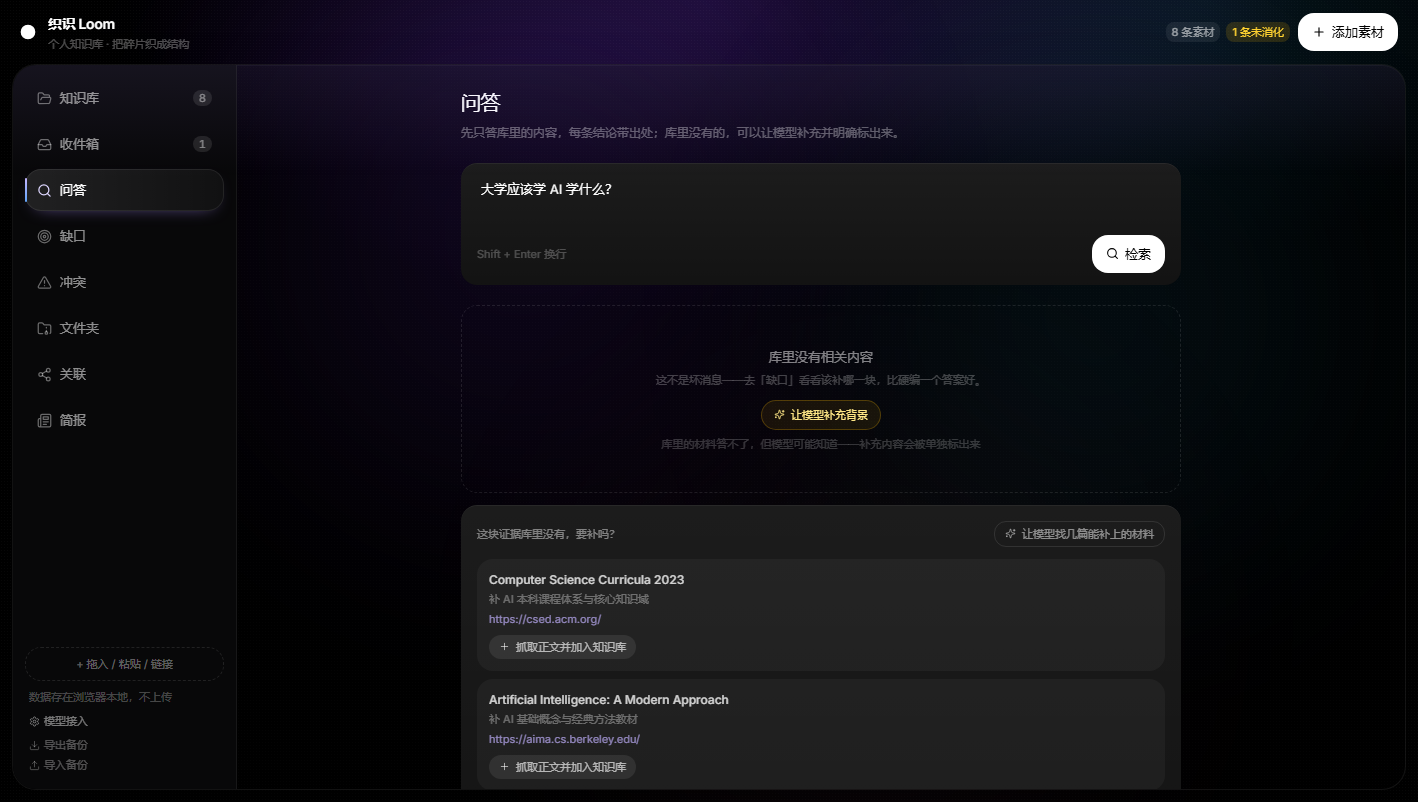
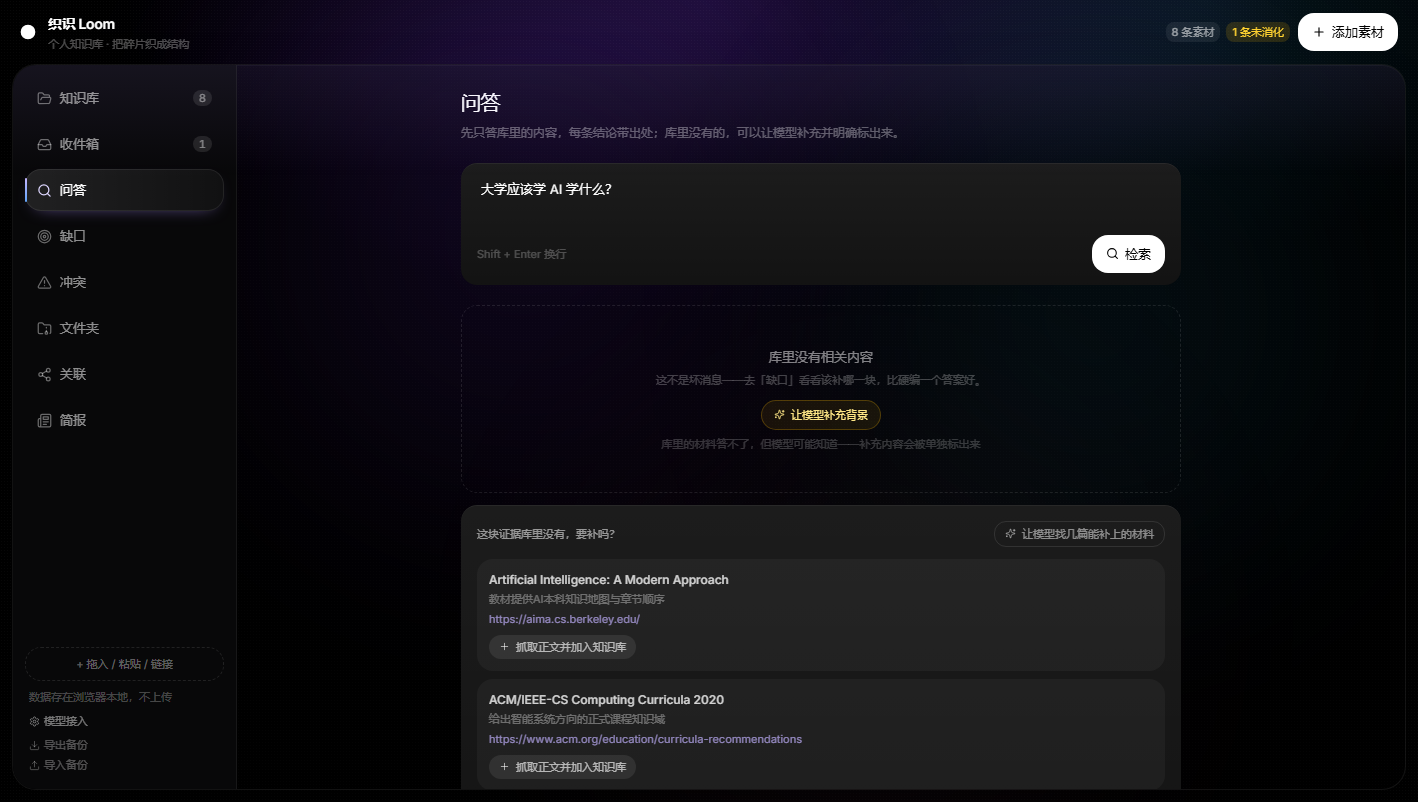
style: 补材料入口内嵌到库外补充下方，空结果时单独成块

Changed region(s): [[0.3413, 0.8416, 0.5585, 0.9352], [0.3413, 0.717, 0.5275, 0.7793]]

diff --git a/components/kb/AskView.tsx b/components/kb/AskView.tsx
@@ -12,6 +12,77 @@ const SUGGESTIONS = [
   "知识管理为什么要强调输出",
 ];
 
+/** 补材料区块：推荐真实材料，用户决定是否入库 */
+function SuggestBlock() {
+  const suggestions = useKb((s) => s.suggestions);
+  const suggestStatus = useKb((s) => s.suggestStatus);
+  const suggestError = useKb((s) => s.suggestError);
+  const suggestAdding = useKb((s) => s.suggestAdding);
+  const findMissingSources = useKb((s) => s.findMissingSources);
+  const addSuggested = useKb((s) => s.addSuggested);
+
+  return (
+    <div className="mt-3 rounded-xl border border-white/[0.07] bg-white/[0.03] p-3">
+      <div className="flex flex-wrap items-center gap-2">
+        <span className="text-2xs text-white/55">这块证据库里没有，要补吗？</span>
+        <button
+          onClick={() => void findMissingSources()}
+          disabled={suggestStatus === "loading"}
+          className="ml-auto flex items-center gap-1.5 rounded-lg border border-white/10 px-2.5 py-1 text-2xs text-white/50 transition-colors hover:border-white/25 hover:text-white disabled:opacity-50"
+        >
+          {suggestStatus === "loading" ? (
+            <Loader2 size={11} className="animate-spin" />
+          ) : (
+            <Sparkles size={11} />
+          )}
+          {suggestStatus === "loading" ? "正在找…" : "让模型找几篇能补上的材料"}
+        </button>
+      </div>
+
+      {suggestions.length > 0 && (
+        <div className="mt-3 space-y-2">
+          {suggestions.map((item, index) => (
+            <div key={`${item.title}-${index}`} className="rounded-xl bg-white/[0.04] p-3">
+              <div className="text-xs font-medium text-white/80">{item.title}</div>
+              {item.reason && <div className="mt-0.5 text-2xs text-white/35">{item.reason}</div>}
+              {item.url && (
+                <a
+                  href={item.url}
+                  target="_blank"
+                  rel="noreferrer"
+                  className="mt-1 block truncate text-2xs text-violet-300/70 hover:text-violet-200"
+                >
+                  {item.url}
+                </a>
+              )}
+              <button
+                onClick={() => void addSuggested(index)}
+                disabled={suggestAdding === index}
+                className="mt-2 flex items-center gap-1.5 rounded-lg bg-white/[0.08] px-2.5 py-1 text-2xs text-white/65 transition-colors hover:bg-white/[0.14] hover:text-white disabled:opacity-50"
+              >
+                {suggestAdding === index ? (
+                  <Loader2 size={11} className="animate-spin" />
+                ) : (
+                  <Plus size={11} />
+                )}
+                {suggestAdding === index ? "抓取中…" : "抓取正文并加入知识库"}
+              </button>
+            </div>
+          ))}
+        </div>
+      )}
+
+      {suggestError && <p className="mt-2 text-2xs text-red-300/80">{suggestError}</p>}
+
+      {suggestions.length === 0 && suggestStatus === "idle" && !suggestError && (
+        <p className="mt-2 text-2xs leading-relaxed text-white/40">
+          模型只会推荐真实存在的公开材料；加不加由你决定，抓不到正文的会明确提示。
+        </p>
+      )}
+    </div>
+  );
+}
+
 export function AskView() {
   const question = useKb((s) => s.question);
   const setQuestion = useKb((s) => s.setQuestion);
@@ -141,7 +212,11 @@ export function AskView() {
                   来自模型自身知识，没有出处。需要证据时去「缺口」看看该补什么。
                 </p>
               </div>
-            ) : answerCloud ? (
+            ) : null}
+
+            {answerCloud?.extra ? <SuggestBlock /> : null}
+
+            {answerCloud && !answerCloud.extra ? (
               <p className="mt-3 text-2xs leading-relaxed text-white/25">
                 本次回答全部来自库内材料，模型没有补充库外内容。
                 <span className="text-white/20">（问库里没有的东西时，这里会出现「库外补充」）</span>
@@ -196,71 +271,7 @@ export function AskView() {
         </div>
       )}
 
-      {(answerCloud?.extra || (answer && answer.empty)) && (
-        <div className={`${card} mt-3 p-4`}>
-          <div className="flex flex-wrap items-center gap-2">
-            <span className="text-2xs text-white/55">这块证据库里没有，要补吗？</span>
-            <button
-              onClick={() => void findMissingSources()}
-              disabled={suggestStatus === "loading"}
-              className="ml-auto flex items-center gap-1.5 rounded-lg border border-white/10 px-2.5 py-1 text-2xs text-white/50 transition-colors hover:border-white/25 hover:text-white disabled:opacity-50"
-            >
-              {suggestStatus === "loading" ? (
-                <Loader2 size={11} className="animate-spin" />
-              ) : (
-                <Sparkles size={11} />
-              )}
-              {suggestStatus === "loading" ? "正在找…" : "让模型找几篇能补上的材料"}
-            </button>
-          </div>
-
-          {suggestions.length > 0 && (
-            <div className="mt-3 space-y-2">
-              {suggestions.map((item, index) => (
-                <div
-                  key={`${item.title}-${index}`}
-                  className="rounded-xl bg-white/[0.04] p-3"
-                >
-                  <div className="text-xs font-medium text-white/80">{item.title}</div>
-                  {item.reason && (
-                    <div className="mt-0.5 text-2xs text-white/35">{item.reason}</div>
-                  )}
-                  {item.url && (
-                    <a
-                      href={item.url}
-                      target="_blank"
-                      rel="noreferrer"
-                      className="mt-1 block truncate text-2xs text-violet-300/70 hover:text-violet-200"
-                    >
-                      {item.url}
-                    </a>
-                  )}
-                  <button
-                    onClick={() => void addSuggested(index)}
-                    disabled={suggestAdding === index}
-                    className="mt-2 flex items-center gap-1.5 rounded-lg bg-white/[0.08] px-2.5 py-1 text-2xs text-white/65 transition-colors hover:bg-white/[0.14] hover:text-white disabled:opacity-50"
-                  >
-                    {suggestAdding === index ? (
-                      <Loader2 size={11} className="animate-spin" />
-                    ) : (
-                      <Plus size={11} />
-                    )}
-                    {suggestAdding === index ? "抓取中…" : "抓取正文并加入知识库"}
-                  </button>
-                </div>
-              ))}
-            </div>
-          )}
-
-          {suggestError && <p className="mt-2 text-2xs text-red-300/80">{suggestError}</p>}
-
-          {suggestions.length === 0 && suggestStatus === "idle" && !suggestError && (
-            <p className="mt-2 text-2xs leading-relaxed text-white/40">
-              模型只会推荐真实存在的公开材料；加不加由你决定，抓不到正文的会明确提示。
-            </p>
-          )}
-        </div>
-      )}
+      {!answerCloud?.extra && answer && answer.empty ? <SuggestBlock /> : null}
     </div>
   );
 }
